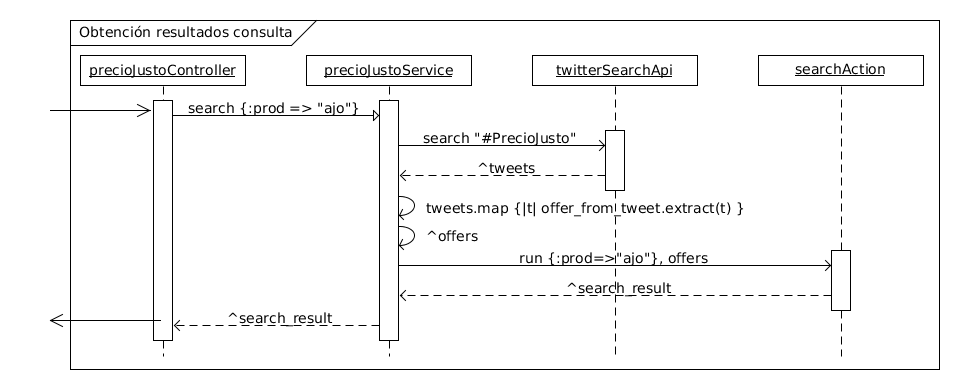
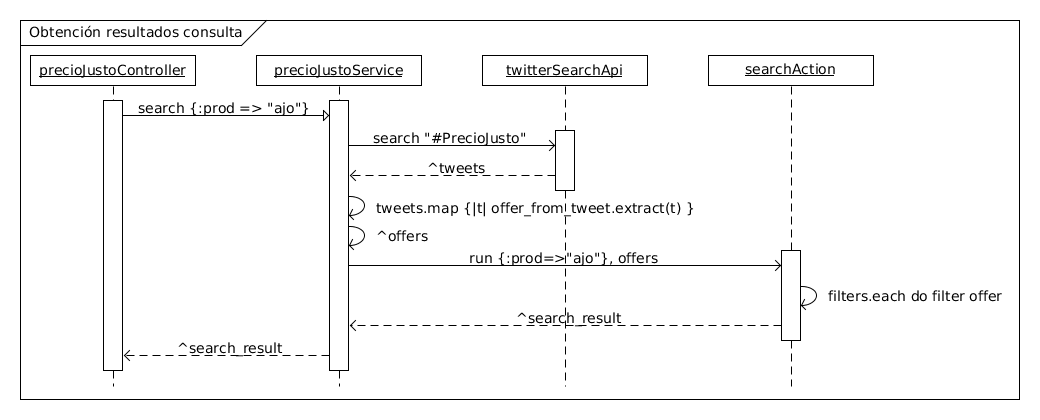
informe con secuencia de procesamiento de busqueda

Changed region(s): [[0.0, 0.0308, 1.0, 0.8923], [0.0, 0.9231, 1.0, 0.9538], [0.625, 0.3692, 0.6562, 0.4]]

diff --git a/sprint/informe/disenio.tex b/sprint/informe/disenio.tex
@@ -16,6 +16,23 @@ Los componentes de PrecioJustoService y de FiltesFactory ser\'an explicados con 
 \label{fig:sequence_sinatra}
 \end{figure}
 
+\subsubsection{B\'usqueda de ofertas}
+\begin{figure}[h]
+\centerline{\includegraphics[width=0.6\paperwidth]{./imgs/sequence_searchAction.png}}
+\caption{Diagrama de secuencia de procesamiento b\'usqueda}
+\label{fig:sequence_sinatra}
+\end{figure}
+
+Mostramos en el diagrama de secuencia que se encuentra a continuaci\'on c\'omo se procesa una consulta desde $elPrecioJustoController$ hasta las capas inferiores de aplicaci\'on.
+El procesamiento de una b\'usqueda luego de ser atendida por Sinatra, se delega en $elPrecioJustoController$, este delega la b\'usqueda en $elPrecioJustoService$. Veremos en las subsiguientes secciones, c\'omo  se generan los servicios por lo pronto veamos las delegaciones y como se procesan las b\'usquedas.
+
+Por un lado observemos que el servicio toma como entrada un diccionario de filtros clave, valor. Estos son los filtros que aplicar\'a a cada oferta.
+En un primer paso obtiene los tweets cuyo hashtag coincide con $\#PrecioJusto$. Luego, se transforma cada tweet en una oferta. Esto \'ultimo es delegado en el responsable de esta tarea $offer_from_tweet$.
+
+A partir de este momento se tiene por un lado, un iterador de las ofertas y por otro, los filtros a aplicar cada una. El encargado de aplicar unos a otros es el $searchAction$ que por cada oferta aplica el filtro. Este resultado parcial es pasado por cada filtro hasta retornar la lista de ofertas filtradas de acuerdo a todos los criterios de b\'usqueda.
+
+
+
 
 \subsubsection{Factory de servicios}
 Twitter expone varias APIs para la obtenci\'on de tweets; las dos m\'as relevantes son la API de Streaming y la API de Search. Estas dos APIs tiene comportamientos muy diferentes.
